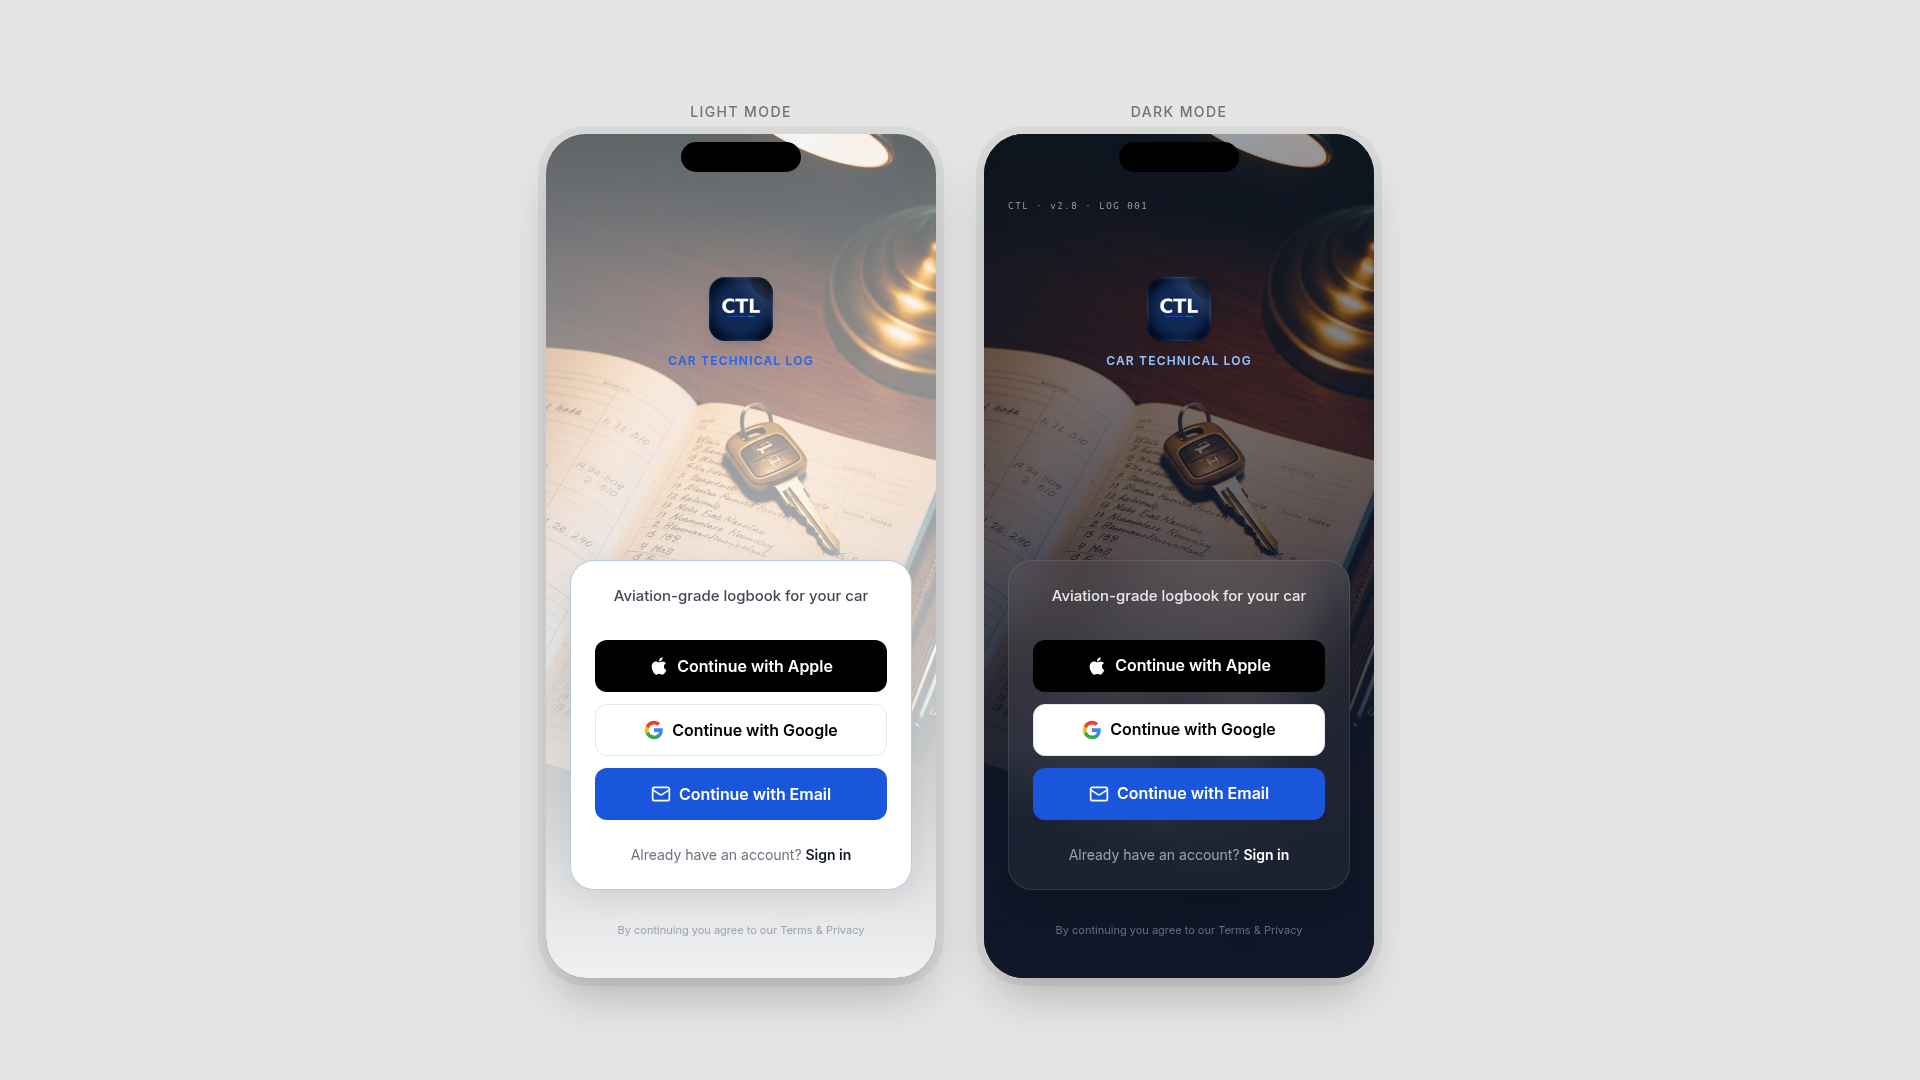
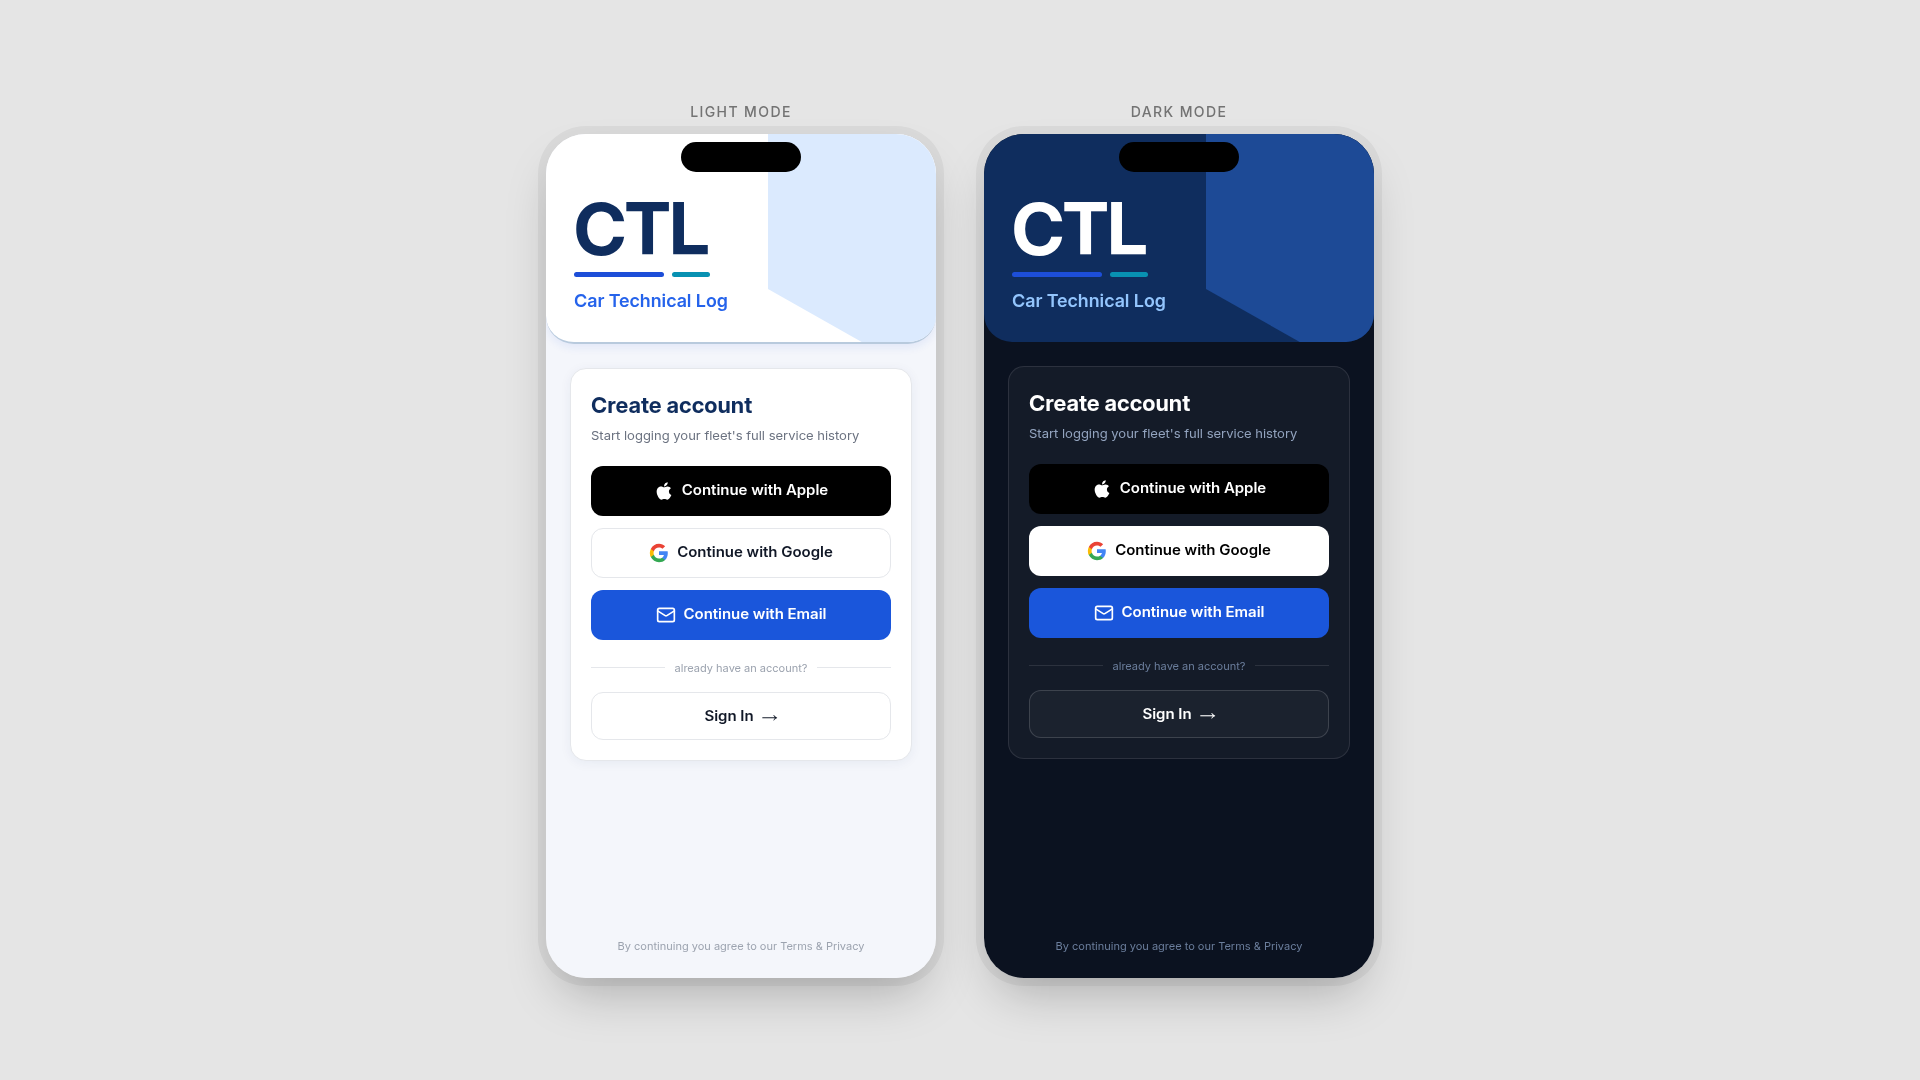
Update signup screen to use the brand hero design instead of a background image
Refactors CinematicCTL.tsx to replace background image with a brand hero component, adjusting styling for light and dark modes.

Replit-Commit-Author: Agent
Replit-Commit-Session-Id: b2beed8c-3549-48a2-ad0b-802dd8d27a3b
Replit-Commit-Checkpoint-Type: full_checkpoint
Replit-Commit-Event-Id: 7f03cda6-6cad-4303-bf8f-4cf6c43baedf
Replit-Commit-Screenshot-Url: https://storage.googleapis.com/screenshot-production-us-central1/e4258cb0-84c7-443c-ad62-0aa669b73cb1/b2beed8c-3549-48a2-ad0b-802dd8d27a3b/kebVVv5
Replit-Helium-Checkpoint-Created: true

Changed region(s): [[0.2812, 0.1222, 0.7188, 0.8861], [0.5625, 0.8556, 0.6875, 0.8861]]

diff --git a/artifacts/mockup-sandbox/src/components/mockups/signup/CinematicCTL.tsx b/artifacts/mockup-sandbox/src/components/mockups/signup/CinematicCTL.tsx
@@ -10,11 +10,10 @@ function PhoneFrame({ label, children }: PhoneFrameProps) {
   return (
     <div className="flex flex-col items-center gap-3">
       <span className="text-sm font-medium text-neutral-500 uppercase tracking-widest">{label}</span>
-      <div 
+      <div
         className="relative overflow-hidden rounded-[40px] shadow-2xl ring-8 ring-neutral-900/5"
         style={{ width: 390, height: 844 }}
       >
-        {/* Dynamic Island / Notch area */}
         <div className="absolute top-0 inset-x-0 h-7 flex justify-center z-50 pt-2 pointer-events-none">
           <div className="w-[120px] h-[30px] bg-black rounded-full" />
         </div>
@@ -43,95 +42,156 @@ function GoogleIcon({ className }: { className?: string }) {
   );
 }
 
+function BrandHero({ isDark, width = 390 }: { isDark: boolean; width?: number }) {
+  const polyFill = isDark ? '#1D4A96' : '#DBEAFE';
+  const titleColor = isDark ? '#FFFFFF' : '#0F2D5E';
+  const tagColor = isDark ? '#93C5FD' : '#2563EB';
+  return (
+    <div
+      className="relative overflow-hidden"
+      style={{
+        backgroundColor: isDark ? '#0F2D5E' : '#FFFFFF',
+        paddingTop: 56,
+        paddingBottom: 28,
+        paddingLeft: 28,
+        paddingRight: 28,
+        borderBottomLeftRadius: 28,
+        borderBottomRightRadius: 28,
+        borderBottom: isDark ? 'none' : '2px solid #B8CADD',
+        boxShadow: isDark ? 'none' : '0 4px 8px rgba(29, 78, 216, 0.08)',
+      }}
+    >
+      <svg
+        width={width}
+        height={250}
+        style={{ position: 'absolute', top: 0, left: 0, pointerEvents: 'none' }}
+      >
+        <polygon
+          points={`${Math.round(width * 0.57)},0 ${width},0 ${width},250 ${Math.round(width * 0.57)},155`}
+          fill={polyFill}
+        />
+      </svg>
+      <div className="relative">
+        <div
+          style={{
+            fontSize: 72,
+            lineHeight: '76px',
+            fontWeight: 700,
+            color: titleColor,
+            letterSpacing: '-0.02em',
+          }}
+        >
+          CTL
+        </div>
+        <div className="flex items-center gap-2 mt-1.5">
+          <div style={{ height: 5, width: 90, backgroundColor: '#1D4ED8', borderRadius: 3 }} />
+          <div style={{ height: 5, width: 38, backgroundColor: '#0891B2', borderRadius: 3 }} />
+        </div>
+        <div
+          style={{
+            marginTop: 10,
+            fontSize: 18,
+            fontWeight: 600,
+            color: tagColor,
+          }}
+        >
+          Car Technical Log
+        </div>
+      </div>
+    </div>
+  );
+}
+
 function CinematicCTLScreen({ mode }: { mode: 'light' | 'dark' }) {
   const isDark = mode === 'dark';
 
   return (
-    <div 
-      className={`w-full h-full relative font-sans ${isDark ? 'bg-[#0F172A] text-[#F9FAFB]' : 'bg-[#F9FAFB] text-[#111827]'}`}
+    <div
+      className={`w-full h-full relative font-sans flex flex-col ${
+        isDark ? 'bg-[#0F172A] text-[#F9FAFB]' : 'bg-[#F9FAFB] text-[#111827]'
+      }`}
     >
-      {/* Background Image / Hero Strip */}
-      <div className="absolute inset-0">
-        <img 
-          src="/__mockup/images/ctl-logbook.png" 
-          alt="Cinematic Car" 
-          className="w-full h-full object-cover object-center"
-        />
-        {isDark ? (
-          // Dark mode: Full bleed photo with heavy navy gradient
-          <div className="absolute inset-0" style={{ background: 'linear-gradient(to bottom, rgba(15,23,42,0.4) 0%, rgba(15,23,42,0.96) 100%)' }} />
-        ) : (
-          // Light mode: Full bleed photo with light wash gradient
-          <div className="absolute inset-0" style={{ background: 'linear-gradient(to bottom, rgba(249,250,251,0.35) 0%, rgba(249,250,251,0.96) 100%)' }} />
-        )}
-      </div>
+      {/* Brand hero (matches the existing app signup screen) */}
+      <BrandHero isDark={isDark} />
 
-      {/* Content */}
-      <div className="relative z-10 w-full h-full flex flex-col pt-16 px-6 pb-8">
-        
-        {/* Aviation Chrome - Small instrument detail */}
-        <div className="flex justify-between items-center mb-8">
-          <div className={`text-[10px] font-mono tracking-widest ${isDark ? 'text-[#9CA3AF]' : 'text-[#6B7280]'}`}>
-            CTL · v2.8 · LOG 001
-          </div>
-        </div>
-
-        {/* CTL Identity */}
-        <div className="mt-8 flex flex-col items-center">
-          <img src="/__mockup/images/ctl-logo.jpg" alt="CTL Icon" className="w-16 h-16 rounded-2xl mb-3 shadow-lg" />
-          <p className={`text-xs font-semibold tracking-widest uppercase ${isDark ? 'text-[#93C5FD]' : 'text-[#2563EB]'}`}>
-            Car Technical Log
-          </p>
-        </div>
-
-        <div className="flex-grow" />
-
-        {/* Sign-in Card */}
-        <div className={`w-full rounded-3xl p-6 ${
-          isDark 
-            ? 'bg-white/5 backdrop-blur-xl border border-white/10 shadow-2xl' 
-            : 'bg-white border border-[#B8CADD] shadow-[0_8px_30px_rgb(0,0,0,0.08)]'
-        }`}>
-          <div className="text-center mb-8">
-            <p className={`text-[15px] font-medium ${isDark ? 'text-[#F9FAFB]/90' : 'text-[#111827]/80'}`}>
-              Aviation-grade logbook for your car
+      {/* Sign-in card */}
+      <div className="flex-1 flex flex-col px-6 pt-6 pb-6">
+        <div
+          className={`w-full rounded-2xl p-5 ${
+            isDark
+              ? 'bg-white/[0.04] border border-white/10'
+              : 'bg-white border border-[#E5E7EB] shadow-[0_2px_12px_rgba(15,45,94,0.06)]'
+          }`}
+        >
+          <div className="mb-5">
+            <h2
+              className={`text-[22px] font-bold ${isDark ? 'text-white' : 'text-[#0F2D5E]'}`}
+            >
+              Create account
+            </h2>
+            <p
+              className={`text-[13px] mt-1 ${isDark ? 'text-[#93A4BF]' : 'text-[#6B7280]'}`}
+            >
+              Start logging your fleet's full service history
             </p>
           </div>
 
           <div className="flex flex-col gap-3">
-            {/* Apple Button */}
-            <button className="w-full h-[52px] bg-black text-white rounded-xl flex items-center justify-center gap-2 font-semibold text-[16px] transition-transform active:scale-[0.98]">
+            <button className="w-full h-[50px] bg-black text-white rounded-xl flex items-center justify-center gap-2 font-semibold text-[15px] active:scale-[0.98] transition-transform">
               <AppleIcon className="w-5 h-5 fill-current" />
               Continue with Apple
             </button>
 
-            {/* Google Button */}
-            <button className="w-full h-[52px] bg-white text-black border border-gray-200 rounded-xl flex items-center justify-center gap-2 font-semibold text-[16px] transition-transform active:scale-[0.98]">
+            <button
+              className={`w-full h-[50px] rounded-xl flex items-center justify-center gap-2 font-semibold text-[15px] active:scale-[0.98] transition-transform ${
+                isDark
+                  ? 'bg-white text-black'
+                  : 'bg-white text-[#111827] border border-[#E5E7EB]'
+              }`}
+            >
               <GoogleIcon className="w-5 h-5" />
               Continue with Google
             </button>
 
-            {/* Email Button */}
-            <button className="w-full h-[52px] bg-[#1A56DB] text-white rounded-xl flex items-center justify-center gap-2 font-semibold text-[16px] transition-transform active:scale-[0.98]">
+            <button className="w-full h-[50px] bg-[#1A56DB] text-white rounded-xl flex items-center justify-center gap-2 font-semibold text-[15px] active:scale-[0.98] transition-transform">
               <Mail className="w-5 h-5" />
               Continue with Email
             </button>
           </div>
 
-          <div className="mt-6 flex justify-center">
-            <button className={`text-[14px] ${isDark ? 'text-[#9CA3AF] hover:text-white' : 'text-[#6B7280] hover:text-[#111827]'} transition-colors`}>
-              Already have an account? <span className={`font-semibold ${isDark ? 'text-white' : 'text-[#111827]'}`}>Sign in</span>
-            </button>
+          {/* Divider */}
+          <div className="flex items-center gap-2.5 mt-5">
+            <div className={`flex-1 h-px ${isDark ? 'bg-white/10' : 'bg-[#E5E7EB]'}`} />
+            <span
+              className={`text-[11px] ${isDark ? 'text-[#6B7E9C]' : 'text-[#9CA3AF]'}`}
+            >
+              already have an account?
+            </span>
+            <div className={`flex-1 h-px ${isDark ? 'bg-white/10' : 'bg-[#E5E7EB]'}`} />
           </div>
+
+          {/* Sign In button */}
+          <button
+            className={`mt-4 w-full h-[48px] rounded-xl flex items-center justify-center gap-2 font-semibold text-[15px] border ${
+              isDark
+                ? 'border-white/15 text-white bg-white/[0.03]'
+                : 'border-[#E5E7EB] text-[#111827] bg-white'
+            }`}
+          >
+            Sign In
+            <span className="text-[16px]">→</span>
+          </button>
         </div>
 
-        {/* Legal line */}
-        <div className="mt-8 mb-2">
-          <p className={`text-[11px] text-center ${isDark ? 'text-[#6B7280]' : 'text-[#9CA3AF]'}`}>
-            By continuing you agree to our Terms & Privacy
-          </p>
-        </div>
+        <div className="flex-1" />
 
+        <p
+          className={`text-[11px] text-center mt-6 ${
+            isDark ? 'text-[#6B7E9C]' : 'text-[#9CA3AF]'
+          }`}
+        >
+          By continuing you agree to our Terms & Privacy
+        </p>
       </div>
     </div>
   );
